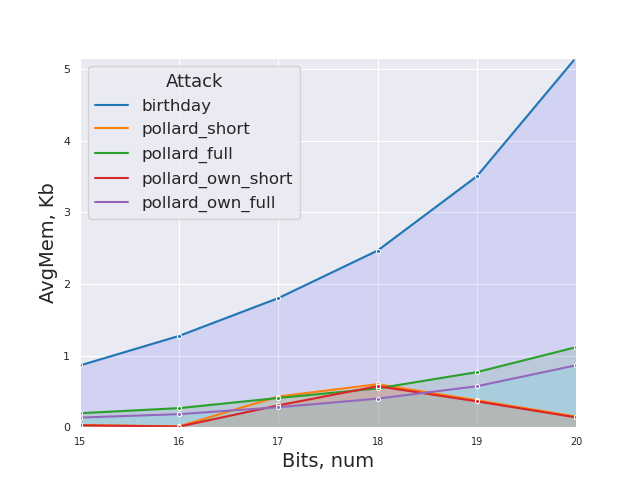
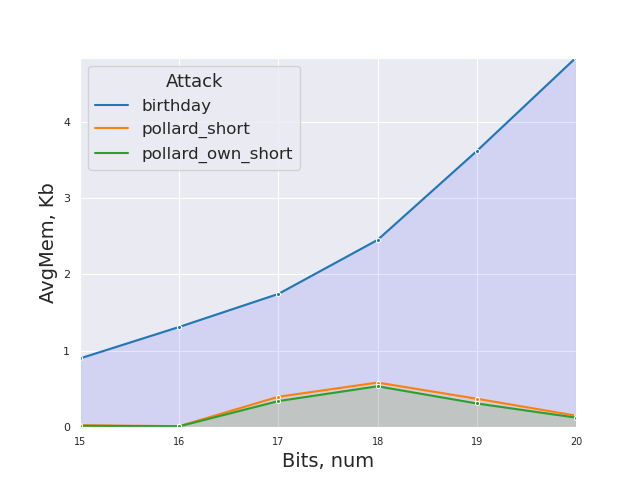
new graphs

diff --git a/data/plotter.py b/data/plotter.py
@@ -46,13 +46,35 @@ def get_specs(filename):
     return res
 
 
-#dirs = ["birthday", "pollard_short", "pollard_full", "pollard_own_short", "pollard_own_full"]
-dirs = ["birthday", "pollard_short", "pollard_own_short"]
+dirs = ["birthday", "pollard_short", "pollard_full", "pollard_own_short", "pollard_own_full"]
+#dirs = ["birthday", "pollard_short", "pollard_own_short"]
 
+for attack in dirs:
+    total_time_df = pd.DataFrame([], columns=None)
+    total_meme_df = pd.DataFrame([], columns=None)
+
+    cur_spec = get_specs(attack + "/specs")
+
+    time_ds = [[x[0], x[1] * 1000.0, attack] for x in cur_spec]
+    time_columns = ["Bits", "AvgTime", "Attack"]
+    time_df = pd.DataFrame(time_ds, columns=time_columns)
+
+    mem_ds = [[x[0], x[2] / (8.0 * 1024.0), attack] for x in cur_spec]
+    mem_columns = ["Bits", "AvgMem", "Attack"]
+    mem_df = pd.DataFrame(mem_ds, columns=mem_columns)
+    
+    total_time_df = pd.concat([total_time_df, time_df])
+    total_meme_df = pd.concat([total_meme_df, mem_df])
+    
+    print("Timing_" + attack)
+    get_plot("AvgTime", "ms", "Timing_" + attack, total_time_df, 1)
+    get_plot("AvgMem", "Kb", "Memory_" + attack, total_meme_df, 1)
+
+dirs = ["birthday", "pollard_short", "pollard_own_short"]
 total_time_df = pd.DataFrame([], columns=None)
 total_meme_df = pd.DataFrame([], columns=None)
-
 bit_bound = 6
+
 for attack in dirs:
     cur_spec = get_specs(attack + "/specs")[:bit_bound]
 
@@ -67,5 +89,6 @@ for attack in dirs:
     total_time_df = pd.concat([total_time_df, time_df])
     total_meme_df = pd.concat([total_meme_df, mem_df])
 
-get_plot("AvgTime", "ms", "Timing_Short_20", total_time_df, 5)
-get_plot("AvgMem", "Kb", "Memory_Short_20", total_meme_df, 5)
+print("Timing_20")
+get_plot("AvgTime", "ms", "Timing_20", total_time_df, 5)
+get_plot("AvgMem", "Kb", "Memory_20", total_meme_df, 5)
